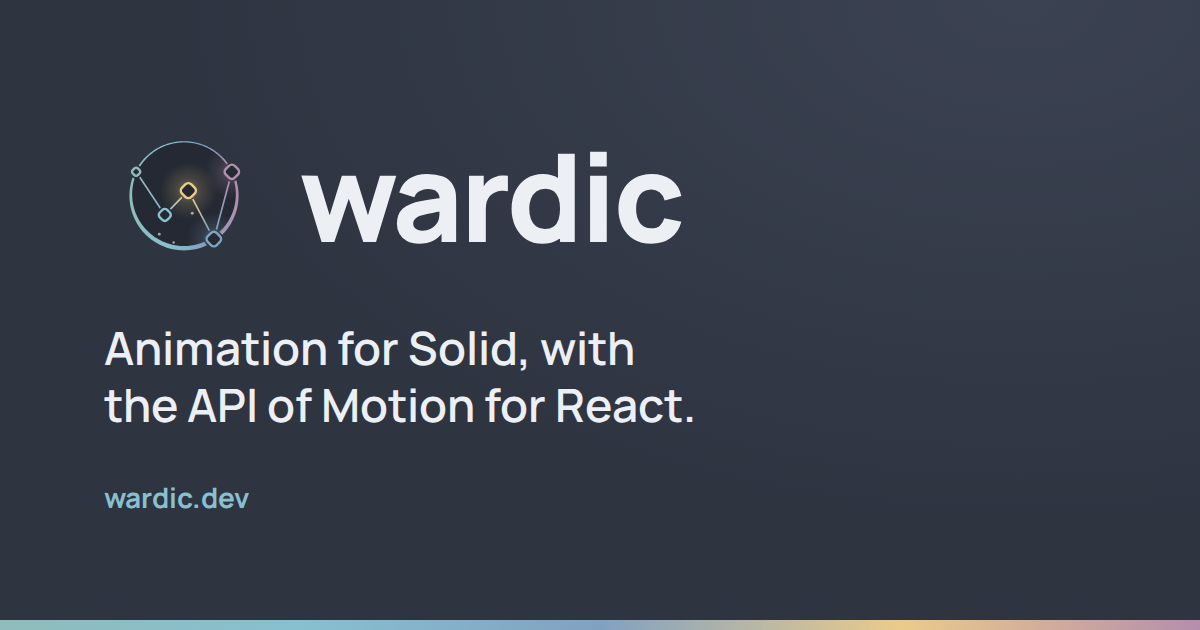
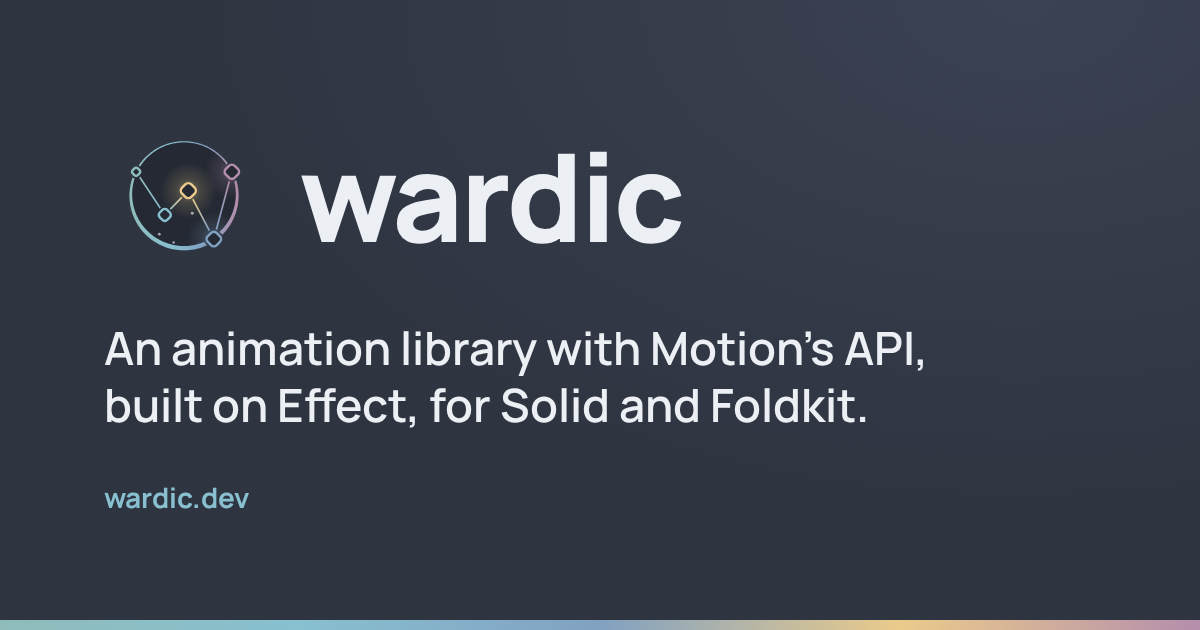
site: the tagline names an animation library with Motion's API, built on Effect, for Solid and Foldkit
The home page's description, which the share image (public/og.png, made again with
`bun run og-image`), the meta and Open Graph descriptions, the JSON-LD and llms.txt all read, was
"Animation for Solid, with the API of Motion for React". It now says what Wardic is and names both
bindings: "An animation library with Motion's API, built on Effect, for Solid and Foldkit."

The home page's title, once just "Wardic", is "Animation with Motion's API, built on Effect", so
its <title> and og:title read that, then "· Wardic"; its heading says the same, and its first
paragraph names Effect and both bindings. The share image's alt text now carries the words the
image shows, from the same description, so the two can't drift. The root README's tagline matches,
and its "you never write Effect" is Solid's. An empty changeset: no package changes.

Changed region(s): [[0.0925, 0.5127, 0.7708, 0.6937], [0.0925, 0.7841, 0.2158, 0.8143]]

diff --git a/site/src/Document.tsx b/site/src/Document.tsx
@@ -5,7 +5,11 @@
  */
 import { HydrationScript } from "@solidjs/web"
 import type { ParentProps } from "solid-js"
+import DESCRIPTIONS from "virtual:page-descriptions"
 import { THEME_SCRIPT } from "~/components/ThemeToggle.tsx"
+
+/** What `public/og.png` shows (scripts/og-image.ts): the lockup, the home page's description under it, and the address. */
+const OG_IMAGE_ALT = `The Wardic logo, Cassiopeia's W in a ward ring beside the wordmark, over the words "${DESCRIPTIONS["index"]}" and wardic.dev.`
 
 export default function Document(props: ParentProps) {
   return (
@@ -18,7 +22,7 @@ export default function Document(props: ParentProps) {
         <meta property="og:image" content="https://wardic.dev/og.png" />
         <meta property="og:image:width" content="1200" />
         <meta property="og:image:height" content="630" />
-        <meta property="og:image:alt" content="Wardic: Cassiopeia's W in a ward ring, beside the wordmark." />
+        <meta property="og:image:alt" content={OG_IMAGE_ALT} />
         <meta name="twitter:card" content="summary_large_image" />
         <meta name="theme-color" media="(prefers-color-scheme: light)" content="#eceff4" />
         <meta name="theme-color" media="(prefers-color-scheme: dark)" content="#2e3440" />

diff --git a/README.md b/README.md
@@ -5,9 +5,9 @@
   </picture>
 </h1>
 
-Animation for [Solid](https://www.solidjs.com), with the API of [Motion](https://motion.dev) for React.
+An animation library with the API of [Motion](https://motion.dev) for React, built on [Effect](https://effect.website), for [Solid](https://www.solidjs.com) and [Foldkit](https://www.npmjs.com/package/foldkit).
 
-Wardic's elements take Motion's props: `initial`, `animate`, `exit` and `transition`; variants that pass down the tree; hover, press, focus, drag and pan; layout and shared-element animations (`layout`, `layoutId`); presence; and values that follow the scroll or the pointer. On a server-rendered page, mount animations play before the JavaScript has loaded, and the client takes them over mid-flight. It runs on [Effect](https://effect.website), which it keeps out of your way: you never write Effect to use it.
+Wardic's elements take Motion's props: `initial`, `animate`, `exit` and `transition`; variants that pass down the tree; hover, press, focus, drag and pan; layout and shared-element animations (`layout`, `layoutId`); presence; and values that follow the scroll or the pointer. On a server-rendered page, mount animations play before the JavaScript has loaded, and the client takes them over mid-flight. On Solid, Effect stays out of your way: you never write Effect to use it.
 
 ## Install
 

diff --git a/.changeset/upset-mammals-glow.md b/.changeset/upset-mammals-glow.md
@@ -1,0 +1,2 @@
+---
+---
